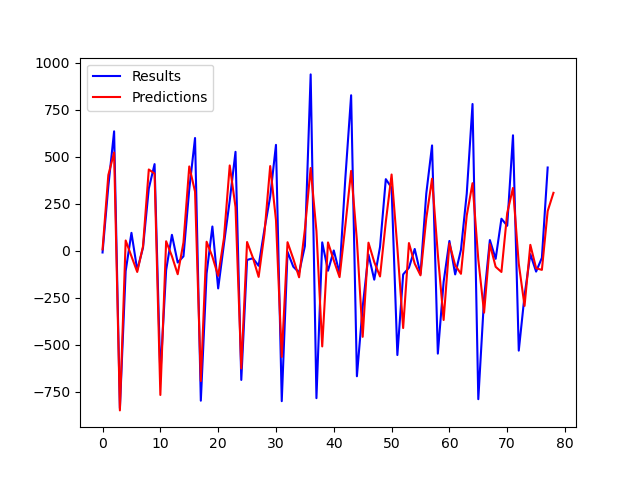
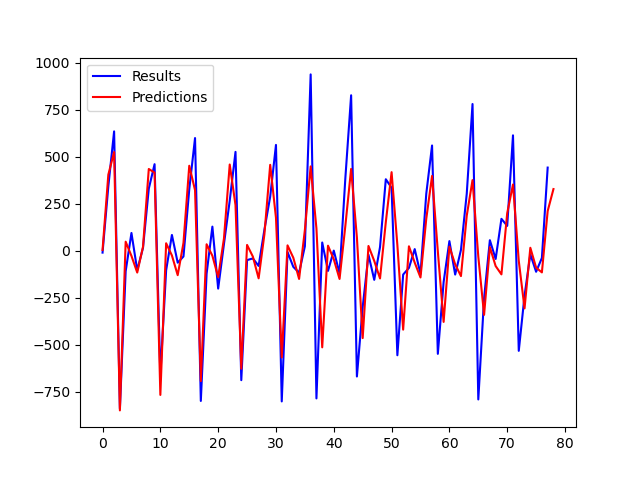
Commit 53 Final Version 1.0.1

diff --git a/manast_site/functions.py b/manast_site/functions.py
@@ -353,7 +353,7 @@ def pred_forecast(sales):
     # train autoregression
 
     # AR
-    window = 6
+    window = 7
     model_ar = AutoReg(train, lags=window)
     model_fit_ar = model_ar.fit()
 
@@ -465,6 +465,6 @@ def pred_forecast(sales):
         error_prev_week -= float(series.values[v-7])
 
     epd_week = error_prev_week/(len(series.values)-7)
-    print(epd_week)
+    # print(epd_week)
 
     return direction_ar, yhat_ar, rmse_ar, yhat_ma, rmse_ma, yhat_arma, rmse_arma, prev_week, actual_week, error_prev_week, epd_week
